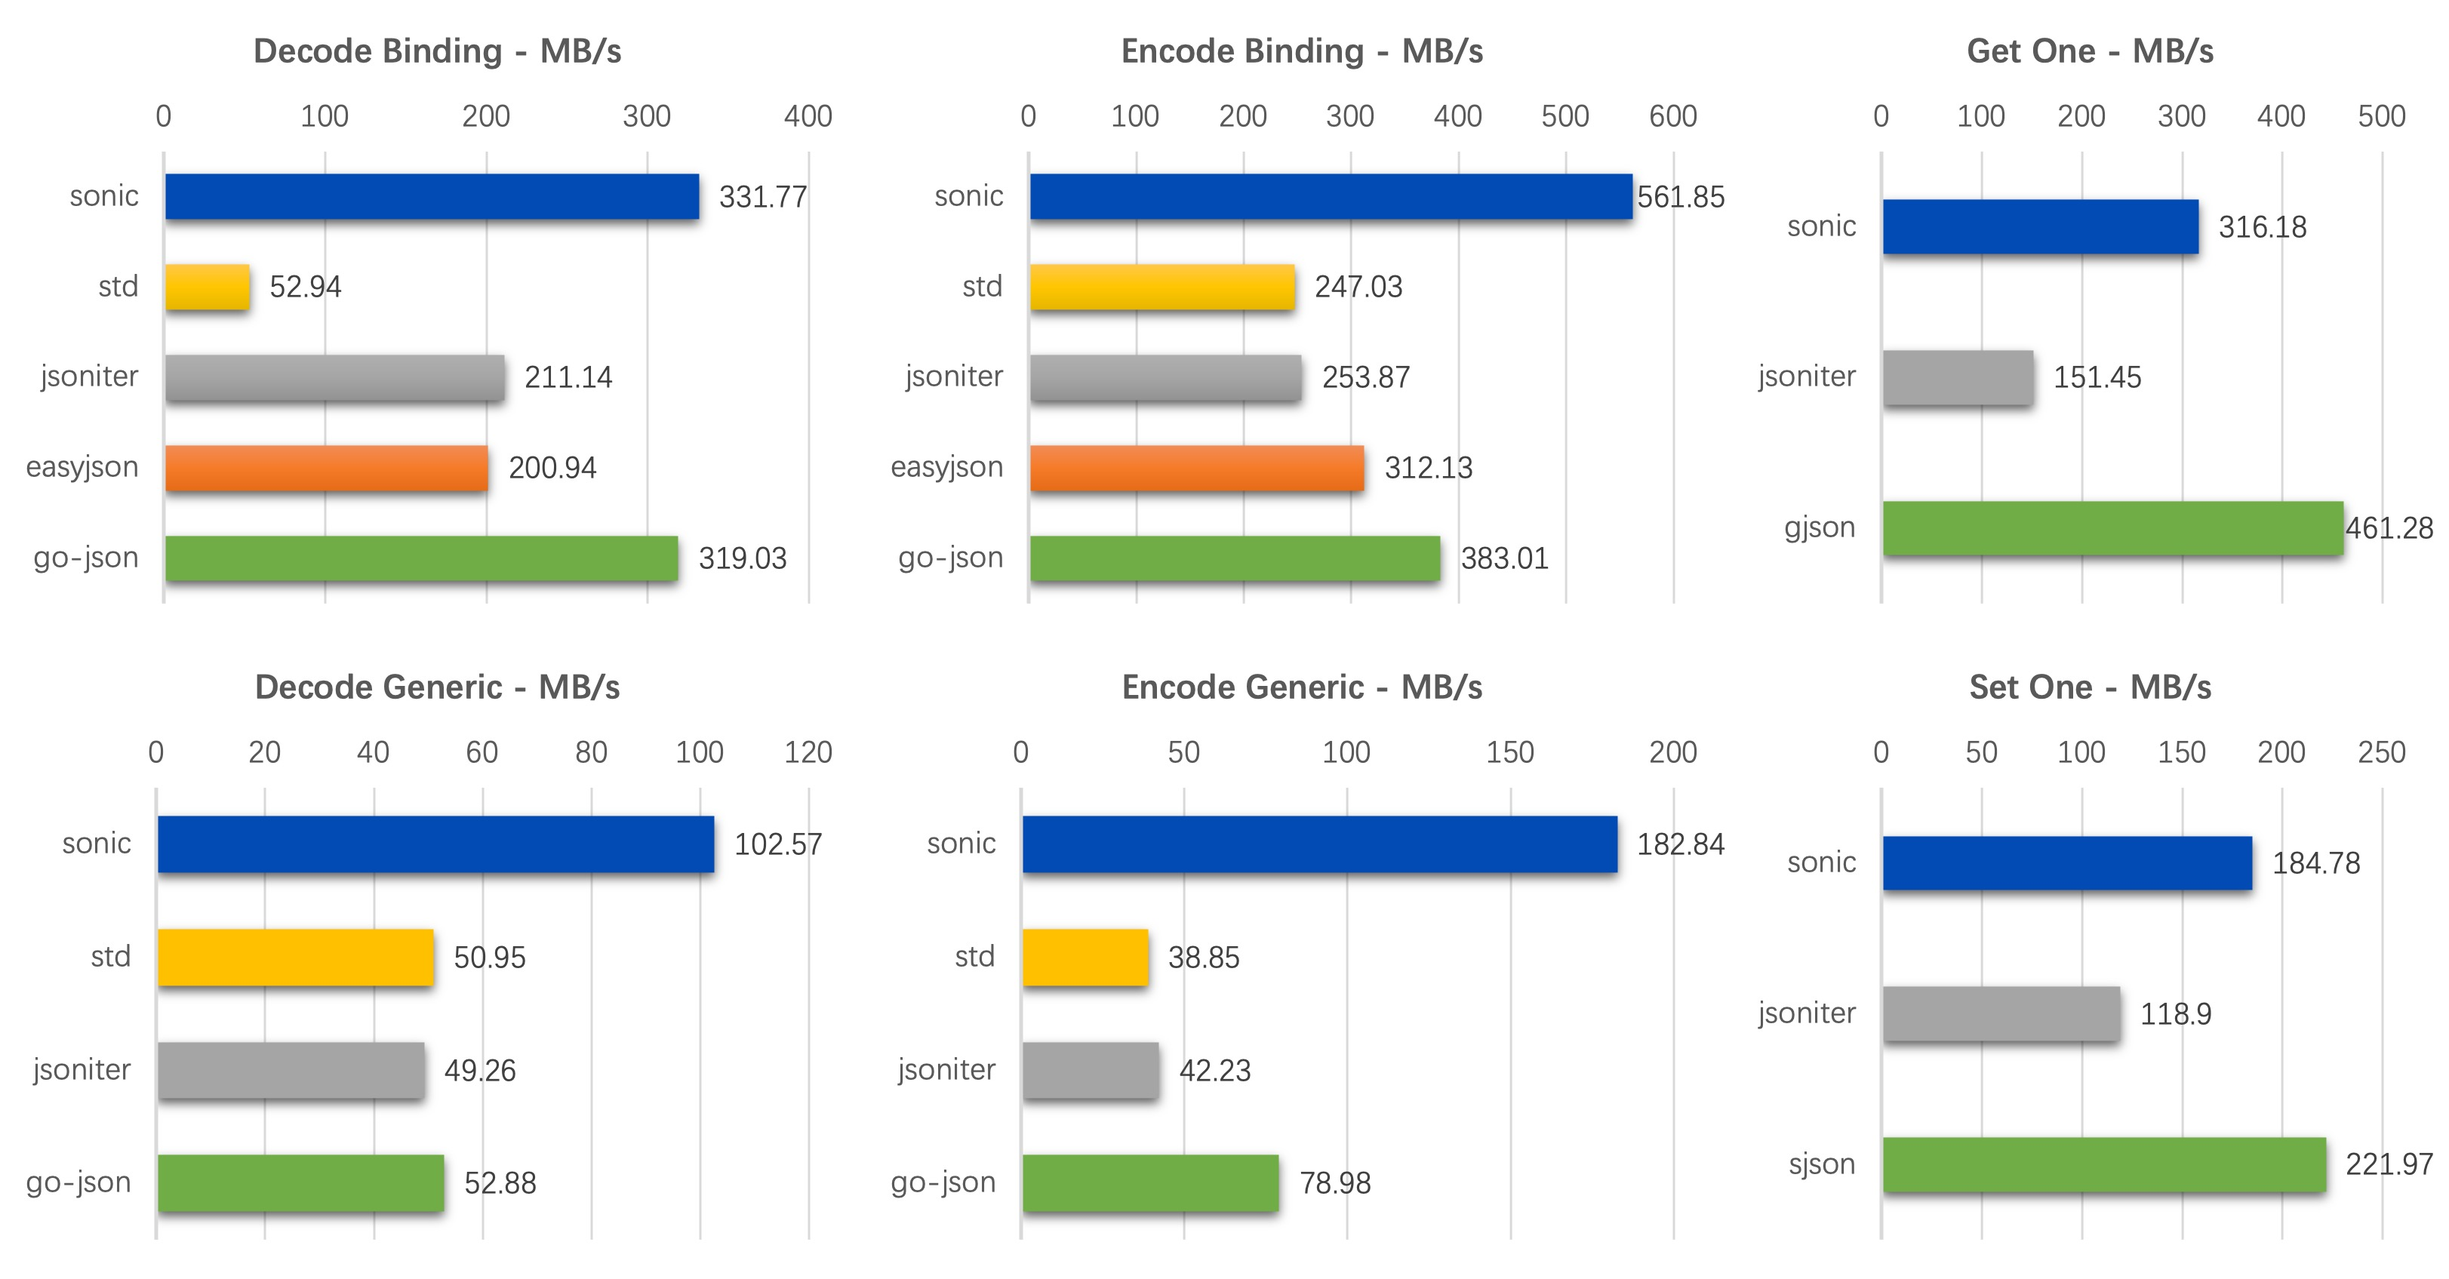
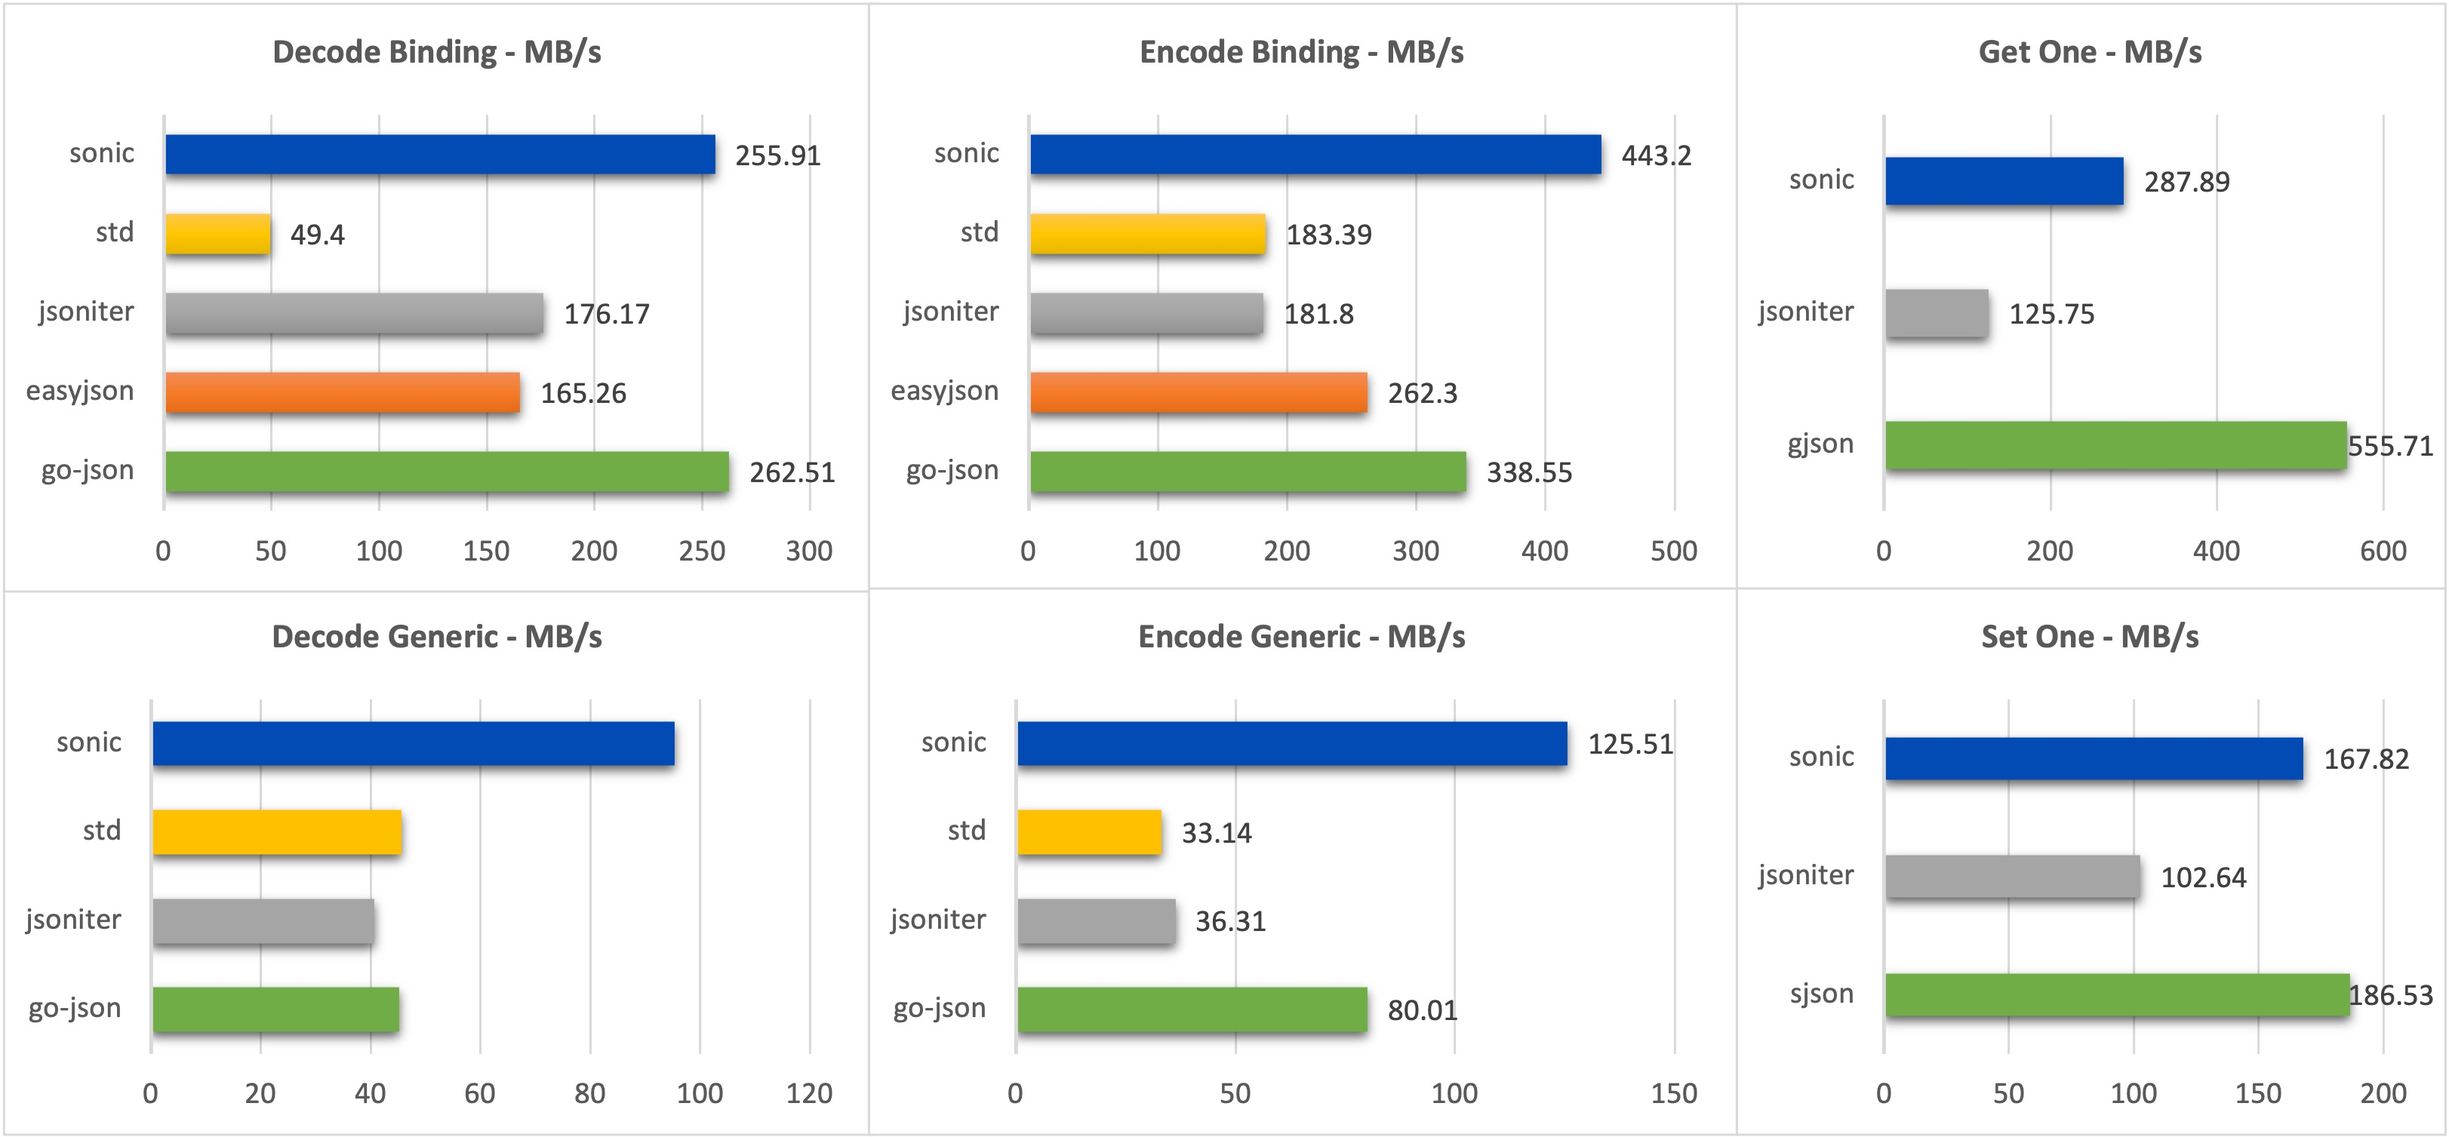
doc: update benchmarks and dependency repos

diff --git a/encoder/encoder_test.go b/encoder/encoder_test.go
@@ -234,20 +234,20 @@ func TestEncoder_MapSortKey(t *testing.T) {
 }
 
 func BenchmarkEncoder_Generic_Sonic(b *testing.B) {
+    _, _ = Encode(_GenericValue, SortMapKeys | EscapeHTML)
+    b.SetBytes(int64(len(TwitterJson)))
+    b.ResetTimer()
+    for i := 0; i < b.N; i++ {
+        _, _ = Encode(_GenericValue, SortMapKeys | EscapeHTML)
+    }
+}
+
+func BenchmarkEncoder_Generic_Sonic_Fast(b *testing.B) {
     _, _ = Encode(_GenericValue, 0)
     b.SetBytes(int64(len(TwitterJson)))
     b.ResetTimer()
     for i := 0; i < b.N; i++ {
         _, _ = Encode(_GenericValue, 0)
-    }
-}
-
-func BenchmarkEncoder_Generic_SonicSorted(b *testing.B) {
-    _, _ = Encode(_GenericValue, SortMapKeys)
-    b.SetBytes(int64(len(TwitterJson)))
-    b.ResetTimer()
-    for i := 0; i < b.N; i++ {
-        _, _ = Encode(_GenericValue, SortMapKeys)
     }
 }
 
@@ -265,7 +265,7 @@ func BenchmarkEncoder_Generic_GoJson(b *testing.B) {
     b.SetBytes(int64(len(TwitterJson)))
     b.ResetTimer()
     for i := 0; i < b.N; i++ {
-        _, _ = gojson.MarshalWithOption(_GenericValue, gojson.UnorderedMap())
+        _, _ = gojson.Marshal(_GenericValue)
     }
 }
 
@@ -279,32 +279,21 @@ func BenchmarkEncoder_Generic_StdLib(b *testing.B) {
 }
 
 func BenchmarkEncoder_Binding_Sonic(b *testing.B) {
-    _, _ = Encode(&_BindingValue, 0)
+    _, _ = Encode(&_BindingValue, SortMapKeys | EscapeHTML)
     b.SetBytes(int64(len(TwitterJson)))
     b.ResetTimer()
     for i := 0; i < b.N; i++ {
-        _, _ = Encode(&_BindingValue, 0)
+        _, _ = Encode(&_BindingValue, SortMapKeys | EscapeHTML)
     }
 }
 
-func BenchmarkEncoder_Binding_SonicSorted(b *testing.B) {
-    _, _ = Encode(&_BindingValue, SortMapKeys)
+func BenchmarkEncoder_Binding_Sonic_Fast(b *testing.B) {
+    _, _ = Encode(&_BindingValue, NoCompactMarshaler | NoQuoteTextMarshaler)
     b.SetBytes(int64(len(TwitterJson)))
     b.ResetTimer()
     for i := 0; i < b.N; i++ {
-        _, _ = Encode(&_BindingValue, SortMapKeys)
+        _, _ = Encode(&_BindingValue, NoCompactMarshaler | NoQuoteTextMarshaler)
     }
-}
-
-func BenchmarkEncoder_Binding_Sonic_Std(b *testing.B) {
-    _, _ = Encode(&_BindingValue, 0)
-    b.SetBytes(int64(len(TwitterJson)))
-    b.ResetTimer()
-    var buf []byte
-    for i := 0; i < b.N; i++ {
-        buf, _ = Encode(&_BindingValue,  SortMapKeys | EscapeHTML)
-    }
-    _ = buf
 }
 
 func BenchmarkEncoder_Binding_JsonIter(b *testing.B) {
@@ -321,7 +310,7 @@ func BenchmarkEncoder_Binding_GoJson(b *testing.B) {
     b.SetBytes(int64(len(TwitterJson)))
     b.ResetTimer()
     for i := 0; i < b.N; i++ {
-        _, _ = gojson.MarshalWithOption(&_BindingValue, gojson.UnorderedMap())
+        _, _ = gojson.Marshal(&_BindingValue)
     }
 }
 
@@ -335,23 +324,23 @@ func BenchmarkEncoder_Binding_StdLib(b *testing.B) {
 }
 
 func BenchmarkEncoder_Parallel_Generic_Sonic(b *testing.B) {
-    _, _ = Encode(_GenericValue, 0)
+    _, _ = Encode(_GenericValue, SortMapKeys | EscapeHTML)
     b.SetBytes(int64(len(TwitterJson)))
     b.ResetTimer()
     b.RunParallel(func(pb *testing.PB) {
         for pb.Next() {
-            _, _ = Encode(_GenericValue, 0)
+            _, _ = Encode(_GenericValue, SortMapKeys | EscapeHTML)
         }
     })
 }
 
-func BenchmarkEncoder_Parallel_Generic_SonicSorted(b *testing.B) {
-    _, _ = Encode(_GenericValue, SortMapKeys)
+func BenchmarkEncoder_Parallel_Generic_Sonic_Fast(b *testing.B) {
+    _, _ = Encode(_GenericValue, NoCompactMarshaler | NoQuoteTextMarshaler)
     b.SetBytes(int64(len(TwitterJson)))
     b.ResetTimer()
     b.RunParallel(func(pb *testing.PB) {
         for pb.Next() {
-            _, _ = Encode(_GenericValue, SortMapKeys)
+            _, _ = Encode(_GenericValue, NoCompactMarshaler | NoQuoteTextMarshaler)
         }
     })
 }
@@ -373,7 +362,7 @@ func BenchmarkEncoder_Parallel_Generic_GoJson(b *testing.B) {
     b.ResetTimer()
     b.RunParallel(func(pb *testing.PB) {
         for pb.Next() {
-            _, _ = gojson.MarshalWithOption(_GenericValue, gojson.UnorderedMap())
+            _, _ = gojson.Marshal(_GenericValue)
         }
     })
 }
@@ -390,23 +379,23 @@ func BenchmarkEncoder_Parallel_Generic_StdLib(b *testing.B) {
 }
 
 func BenchmarkEncoder_Parallel_Binding_Sonic(b *testing.B) {
-    _, _ = Encode(&_BindingValue, 0)
+    _, _ = Encode(&_BindingValue, SortMapKeys | EscapeHTML)
     b.SetBytes(int64(len(TwitterJson)))
     b.ResetTimer()
     b.RunParallel(func(pb *testing.PB) {
         for pb.Next() {
-            _, _ = Encode(&_BindingValue, 0)
+            _, _ = Encode(&_BindingValue, SortMapKeys | EscapeHTML)
         }
     })
 }
 
-func BenchmarkEncoder_Parallel_Binding_SonicSorted(b *testing.B) {
-    _, _ = Encode(&_BindingValue, SortMapKeys)
+func BenchmarkEncoder_Parallel_Binding_Sonic_Fast(b *testing.B) {
+    _, _ = Encode(&_BindingValue, NoCompactMarshaler | NoQuoteTextMarshaler)
     b.SetBytes(int64(len(TwitterJson)))
     b.ResetTimer()
     b.RunParallel(func(pb *testing.PB) {
         for pb.Next() {
-            _, _ = Encode(&_BindingValue, SortMapKeys)
+            _, _ = Encode(&_BindingValue, NoCompactMarshaler | NoQuoteTextMarshaler)
         }
     })
 }
@@ -428,7 +417,7 @@ func BenchmarkEncoder_Parallel_Binding_GoJson(b *testing.B) {
     b.ResetTimer()
     b.RunParallel(func(pb *testing.PB) {
         for pb.Next() {
-            _, _ = gojson.MarshalWithOption(&_BindingValue, gojson.UnorderedMap())
+            _, _ = gojson.Marshal(&_BindingValue)
         }
     })
 }

diff --git a/README.md b/README.md
@@ -20,44 +20,56 @@ goversion: 1.17.1
 goos: darwin
 goarch: amd64
 cpu: Intel(R) Core(TM) i9-9880H CPU @ 2.30GHz
-BenchmarkEncoder_Generic_Sonic                        25181 ns/op         517.65 MB/s       13035 B/op          4 allocs/op
-BenchmarkEncoder_Generic_JsonIter                     43765 ns/op         297.84 MB/s       13433 B/op         77 allocs/op
-BenchmarkEncoder_Generic_StdLib                      108776 ns/op         119.83 MB/s       49137 B/op        827 allocs/op
-BenchmarkEncoder_Binding_Sonic                         6282 ns/op        2075.01 MB/s       13765 B/op          4 allocs/op
-BenchmarkEncoder_Binding_JsonIter                     20740 ns/op         628.51 MB/s        9487 B/op          2 allocs/op
-BenchmarkEncoder_Binding_StdLib                       16661 ns/op         782.34 MB/s        9479 B/op          1 allocs/op
-BenchmarkEncoder_Parallel_Generic_Sonic-16             4072 ns/op        3200.89 MB/s       11052 B/op          4 allocs/op
-BenchmarkEncoder_Parallel_Generic_JsonIter-16         11379 ns/op        1145.52 MB/s       13458 B/op         77 allocs/op
-BenchmarkEncoder_Parallel_Generic_StdLib-16           50635 ns/op         257.43 MB/s       49183 B/op        827 allocs/op
-BenchmarkEncoder_Parallel_Binding_Sonic-16             1304 ns/op        9994.64 MB/s       10925 B/op          4 allocs/op
-BenchmarkEncoder_Parallel_Binding_JsonIter-16          6072 ns/op        2146.76 MB/s        9505 B/op          2 allocs/op
-BenchmarkEncoder_Parallel_Binding_StdLib-16            3510 ns/op        3713.89 MB/s        9481 B/op          1 allocs/op
+BenchmarkEncoder_Generic_Sonic-16                      42688 ns/op         305.36 MB/s       15608 B/op          4 allocs/op
+BenchmarkEncoder_Generic_Sonic_Fast-16                 30043 ns/op         433.87 MB/s       14638 B/op          4 allocs/op
+BenchmarkEncoder_Generic_JsonIter-16                   46461 ns/op         280.56 MB/s       13433 B/op         77 allocs/op
+BenchmarkEncoder_Generic_GoJson-16                     73608 ns/op         177.09 MB/s       23219 B/op         16 allocs/op
+BenchmarkEncoder_Generic_StdLib-16                    122622 ns/op         106.30 MB/s       49137 B/op        827 allocs/op
+BenchmarkEncoder_Binding_Sonic-16                       8190 ns/op        1591.61 MB/s       16175 B/op          4 allocs/op
+BenchmarkEncoder_Binding_Sonic_Fast-16                  7365 ns/op        1769.85 MB/s       14367 B/op          4 allocs/op
+BenchmarkEncoder_Binding_JsonIter-16                   23326 ns/op         558.81 MB/s        9487 B/op          2 allocs/op
+BenchmarkEncoder_Binding_GoJson-16                      9412 ns/op        1384.93 MB/s        9480 B/op          1 allocs/op
+BenchmarkEncoder_Binding_StdLib-16                     18510 ns/op         704.22 MB/s        9479 B/op          1 allocs/op
+BenchmarkEncoder_Parallel_Generic_Sonic-16              7716 ns/op        1689.37 MB/s       12812 B/op          4 allocs/op
+BenchmarkEncoder_Parallel_Generic_Sonic_Fast-16         4791 ns/op        2720.47 MB/s       10884 B/op          4 allocs/op
+BenchmarkEncoder_Parallel_Generic_JsonIter-16          10505 ns/op        1240.85 MB/s       13455 B/op         77 allocs/op
+BenchmarkEncoder_Parallel_Generic_GoJson-16            24086 ns/op         541.19 MB/s       23379 B/op         17 allocs/op
+BenchmarkEncoder_Parallel_Generic_StdLib-16            65697 ns/op         198.41 MB/s       49164 B/op        827 allocs/op
+BenchmarkEncoder_Parallel_Binding_Sonic-16              2085 ns/op        6251.53 MB/s       12933 B/op          4 allocs/op
+BenchmarkEncoder_Parallel_Binding_Sonic_Fast-16         1612 ns/op        8087.31 MB/s       11177 B/op          4 allocs/op
+BenchmarkEncoder_Parallel_Binding_JsonIter-16           6169 ns/op        2112.84 MB/s        9494 B/op          2 allocs/op
+BenchmarkEncoder_Parallel_Binding_GoJson-16             3492 ns/op        3733.14 MB/s        9492 B/op          1 allocs/op
+BenchmarkEncoder_Parallel_Binding_StdLib-16             5170 ns/op        2521.50 MB/s        9482 B/op          1 allocs/op
 
-BenchmarkDecoder_Generic_Sonic                        53843 ns/op         242.09 MB/s       49779 B/op        313 allocs/op
-BenchmarkDecoder_Generic_StdLib                      130402 ns/op          99.96 MB/s       50868 B/op        772 allocs/op
-BenchmarkDecoder_Generic_JsonIter                     92810 ns/op         140.45 MB/s       55788 B/op       1068 allocs/op
-BenchmarkDecoder_Binding_Sonic                        29793 ns/op         437.52 MB/s       24778 B/op         34 allocs/op
-BenchmarkDecoder_Binding_StdLib                      121206 ns/op         107.54 MB/s       10576 B/op        208 allocs/op
-BenchmarkDecoder_Binding_JsonIter                     36099 ns/op         361.09 MB/s       14674 B/op        385 allocs/op
-BenchmarkDecoder_Parallel_Generic_Sonic-16            10319 ns/op        1263.21 MB/s       49423 B/op        313 allocs/op
-BenchmarkDecoder_Parallel_Generic_StdLib-16           58526 ns/op         222.72 MB/s       50875 B/op        772 allocs/op
-BenchmarkDecoder_Parallel_Generic_JsonIter-16         60156 ns/op         216.69 MB/s       55812 B/op       1068 allocs/op
-BenchmarkDecoder_Parallel_Binding_Sonic-16             7265 ns/op        1794.18 MB/s       24952 B/op         34 allocs/op
-BenchmarkDecoder_Parallel_Binding_StdLib-16           44000 ns/op         296.25 MB/s       10575 B/op        208 allocs/op
-BenchmarkDecoder_Parallel_Binding_JsonIter-16         21029 ns/op         619.86 MB/s       14678 B/op        385 allocs/op
+BenchmarkDecoder_Generic_Sonic-16                      69966 ns/op         186.30 MB/s       49543 B/op        313 allocs/op
+BenchmarkDecoder_Generic_StdLib-16                    146902 ns/op          88.73 MB/s       50872 B/op        772 allocs/op
+BenchmarkDecoder_Generic_JsonIter-16                  101592 ns/op         128.31 MB/s       55783 B/op       1068 allocs/op
+BenchmarkDecoder_Generic_GoJson-16                     97865 ns/op         133.19 MB/s       66367 B/op        973 allocs/op
+BenchmarkDecoder_Binding_Sonic-16                      31418 ns/op         414.90 MB/s       24779 B/op         34 allocs/op
+BenchmarkDecoder_Binding_StdLib-16                    131260 ns/op          99.31 MB/s       10576 B/op        208 allocs/op
+BenchmarkDecoder_Binding_JsonIter-16                   39298 ns/op         331.70 MB/s       14673 B/op        385 allocs/op
+BenchmarkDecoder_Binding_GoJson-16                     31852 ns/op         409.24 MB/s       22040 B/op         49 allocs/op
+BenchmarkDecoder_Parallel_Generic_Sonic-16             10525 ns/op        1238.44 MB/s       49470 B/op        313 allocs/op
+BenchmarkDecoder_Parallel_Generic_StdLib-16            60223 ns/op         216.44 MB/s       50875 B/op        772 allocs/op
+BenchmarkDecoder_Parallel_Generic_JsonIter-16          60918 ns/op         213.97 MB/s       55817 B/op       1068 allocs/op
+BenchmarkDecoder_Parallel_Generic_GoJson-16            48386 ns/op         269.39 MB/s       66425 B/op        974 allocs/op
+BenchmarkDecoder_Parallel_Binding_Sonic-16              7319 ns/op        1781.00 MB/s       24889 B/op         34 allocs/op
+BenchmarkDecoder_Parallel_Binding_StdLib-16            40494 ns/op         321.90 MB/s       10575 B/op        208 allocs/op
+BenchmarkDecoder_Parallel_Binding_JsonIter-16          18840 ns/op         691.89 MB/s       14679 B/op        385 allocs/op
+BenchmarkDecoder_Parallel_Binding_GoJson-16            17078 ns/op         763.28 MB/s       22211 B/op         49 allocs/op
 
-BenchmarkGetOne_Sonic                                 17070 ns/op         762.94 MB/s          29 B/op          1 allocs/op
-BenchmarkGetOne_Gjson                                 19714 ns/op         660.59 MB/s           0 B/op          0 allocs/op
-BenchmarkGetOne_Jsoniter                              99281 ns/op         131.17 MB/s       27936 B/op        647 allocs/op
-BenchmarkSetOne_Sonic                                 23730 ns/op         548.80 MB/s        1883 B/op         17 allocs/op
-BenchmarkSetOne_Sjson                                 57680 ns/op         225.78 MB/s       52180 B/op          9 allocs/op
-BenchmarkSetOne_Jsoniter                             104018 ns/op         125.20 MB/s       45859 B/op        964 allocs/op
-BenchmarkGetOne_Parallel_Sonic-16                      2010 ns/op        6479.41 MB/s         114 B/op          1 allocs/op
-BenchmarkGetOne_Parallel_Gjson-16                      1815 ns/op        7176.39 MB/s           0 B/op          0 allocs/op
-BenchmarkGetOne_Parallel_Jsoniter-16                  23261 ns/op         559.86 MB/s       27942 B/op        647 allocs/op
-BenchmarkSetOne_Parallel_Sonic-16                      2007 ns/op        6487.78 MB/s        2202 B/op         17 allocs/op
-BenchmarkSetOne_Parallel_Sjson-16                     12422 ns/op        1048.40 MB/s       52180 B/op          9 allocs/op
-BenchmarkSetOne_Parallel_Jsoniter-16                  39204 ns/op         332.18 MB/s       45889 B/op        964 allocs/op
+BenchmarkGetOne_Sonic-16                               11328 ns/op        1149.64 MB/s          29 B/op          1 allocs/op
+BenchmarkGetOne_Gjson-16                               12970 ns/op        1004.07 MB/s           0 B/op          0 allocs/op
+BenchmarkGetOne_Jsoniter-16                            59928 ns/op         217.31 MB/s       27936 B/op        647 allocs/op
+BenchmarkGetOne_Parallel_Sonic-16                       1447 ns/op        9002.23 MB/s         114 B/op          1 allocs/op
+BenchmarkGetOne_Parallel_Gjson-16                       1171 ns/op        11125.73 MB/s          0 B/op          0 allocs/op
+BenchmarkGetOne_Parallel_Jsoniter-16                   15545 ns/op         837.75 MB/s       27940 B/op        647 allocs/op
+BenchmarkSetOne_Sonic-16                               16922 ns/op         769.57 MB/s        1936 B/op         17 allocs/op
+BenchmarkSetOne_Sjson-16                               42683 ns/op         305.11 MB/s       52181 B/op          9 allocs/op
+BenchmarkSetOne_Jsoniter-16                            91104 ns/op         142.95 MB/s       45861 B/op        964 allocs/op
+BenchmarkSetOne_Parallel_Sonic-16                       2065 ns/op        6305.03 MB/s        2383 B/op         17 allocs/op
+BenchmarkSetOne_Parallel_Sjson-16                      11526 ns/op        1129.87 MB/s       52175 B/op          9 allocs/op
+BenchmarkSetOne_Parallel_Jsoniter-16                   35044 ns/op         371.61 MB/s       45887 B/op        964 allocs/op
 ```        
 - [Small](https://github.com/bytedance/sonic/blob/main/testdata/small.go) (400B, 11 keys, 3 layers)
 ![small benchmarks](bench-small.jpg)
